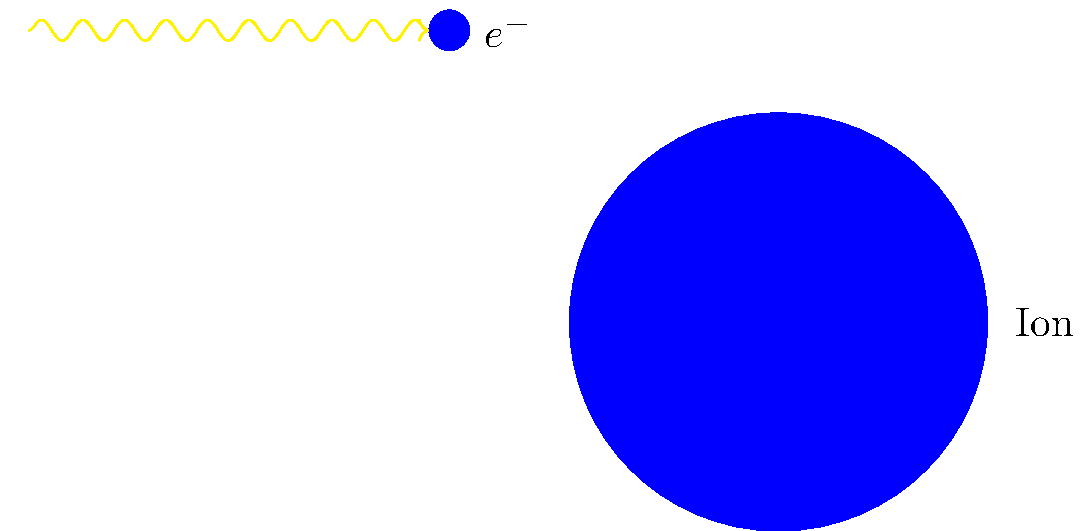
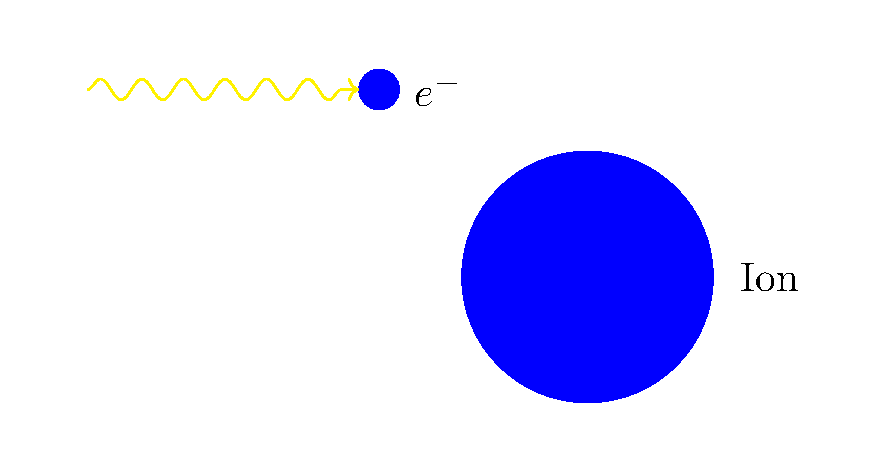
Resize free_free_absorbtion-1.png

diff --git a/docs/physics/media/free_free_absorbtion.tex b/docs/physics/media/free_free_absorbtion.tex
@@ -1,10 +1,10 @@
-\documentclass[convert,tikz]{standalone}
+\documentclass[convert, margin=5mm,tikz]{standalone}
 \usepackage{tikz-feynman}
 \usepackage{tikz}
 \begin{document}
 \begin{tikzpicture}
-  \filldraw[fill=blue, draw=blue, outer sep = 25px] (0,0) circle (50px) node[label=right:Ion]{};
-  \node[circle,minimum size=5px, radius=5px,fill=blue, draw=blue, label=right:\(e^-\)] (e1) at (-79px, 70px) {} ;
-  \draw[->,decorate, decoration=snake, draw=yellow] (-180px, 70px) node[anchor=south east]{} -- (e1);
+  \filldraw[fill=blue, draw=blue, outer sep = 15px] (0,0) circle (30px) node[label=right:Ion]{};
+  \node[circle,minimum size=5px, radius=5px,fill=blue, draw=blue, label=right:\(e^-\)] (e1) at (-50px, 45px) {} ;
+  \draw[->,decorate, decoration=snake, draw=yellow] (-120px, 45px) node[anchor=south east]{} -- (e1);
 \end{tikzpicture}
 \end{document}
